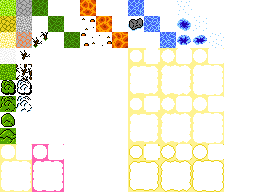
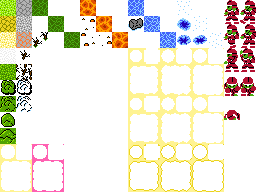
side view actor

Changed region(s): [[0.875, 0.0, 1.0, 0.375], [0.875, 0.4062, 1.0, 0.5], [0.875, 0.5625, 0.9375, 0.625]]

diff --git a/js/plugins/PixelPerfect.js b/js/plugins/PixelPerfect.js
@@ -48,7 +48,7 @@
  * @parent useTextImages
  *
  * @param iconW
- * @text Icon width
+ * @text Icon Width
  * @desc The width of icons, measured in pixels.
  * @type number
  * @default 32
@@ -60,6 +60,22 @@
  * @desc The height of icons, measured in pixels.
  * @type number
  * @default 32
+ * @min 1
+ * @decimals 0
+ *
+ * @param sideViewActorW
+ * @text Side View Actor Width
+ * @desc The width of side view battle actors, measured in pixels.
+ * @type number
+ * @default 64
+ * @min 1
+ * @decimals 0
+ *
+ * @param sideViewActorH
+ * @text Side View Actor Height
+ * @desc The height of side view battle actors, measured in pixels.
+ * @type number
+ * @default 64
  * @min 1
  * @decimals 0
  */
@@ -102,6 +118,8 @@
 		ppParams.tileHeight = parsePPInt(ppParams.tileHeight, 48, 1);
 		ppParams.iconW = parsePPInt(ppParams.iconW, 32, 1);
 		ppParams.iconH = parsePPInt(ppParams.iconH, 32, 1);
+		ppParams.sideViewActorW = parsePPInt(ppParams.sideViewActorW, 64, 1);
+		ppParams.sideViewActorH = parsePPInt(ppParams.sideViewActorH, 64, 1);
 		ppParams.useTextImages = ppParams.useTextImages === 'true';
 		ppParams.textImages = parsePPJSON(ppParams.textImages, []);
 		for(const textImageInfoStringIndex in ppParams.textImages) {

diff --git a/js/plugins.js b/js/plugins.js
@@ -2,5 +2,5 @@
 // Do not edit this file directly.
 var $plugins =
 [
-{"name":"PixelPerfect","status":true,"description":"Adjustments and options for different resolutions.","parameters":{"tileWidth":"48","tileHeight":"48","imageFileTag":"_RUNTIME","useTextImages":"false","textImages":"","iconW":"32","iconH":"32"}}
+{"name":"PixelPerfect","status":true,"description":"Adjustments and options for different resolutions.","parameters":{"tileWidth":"48","tileHeight":"48","imageFileTag":"_RUNTIME","useTextImages":"false","textImages":"","iconW":"32","iconH":"32","sideViewActorW":"64","sideViewActorH":"64"}}
 ];
